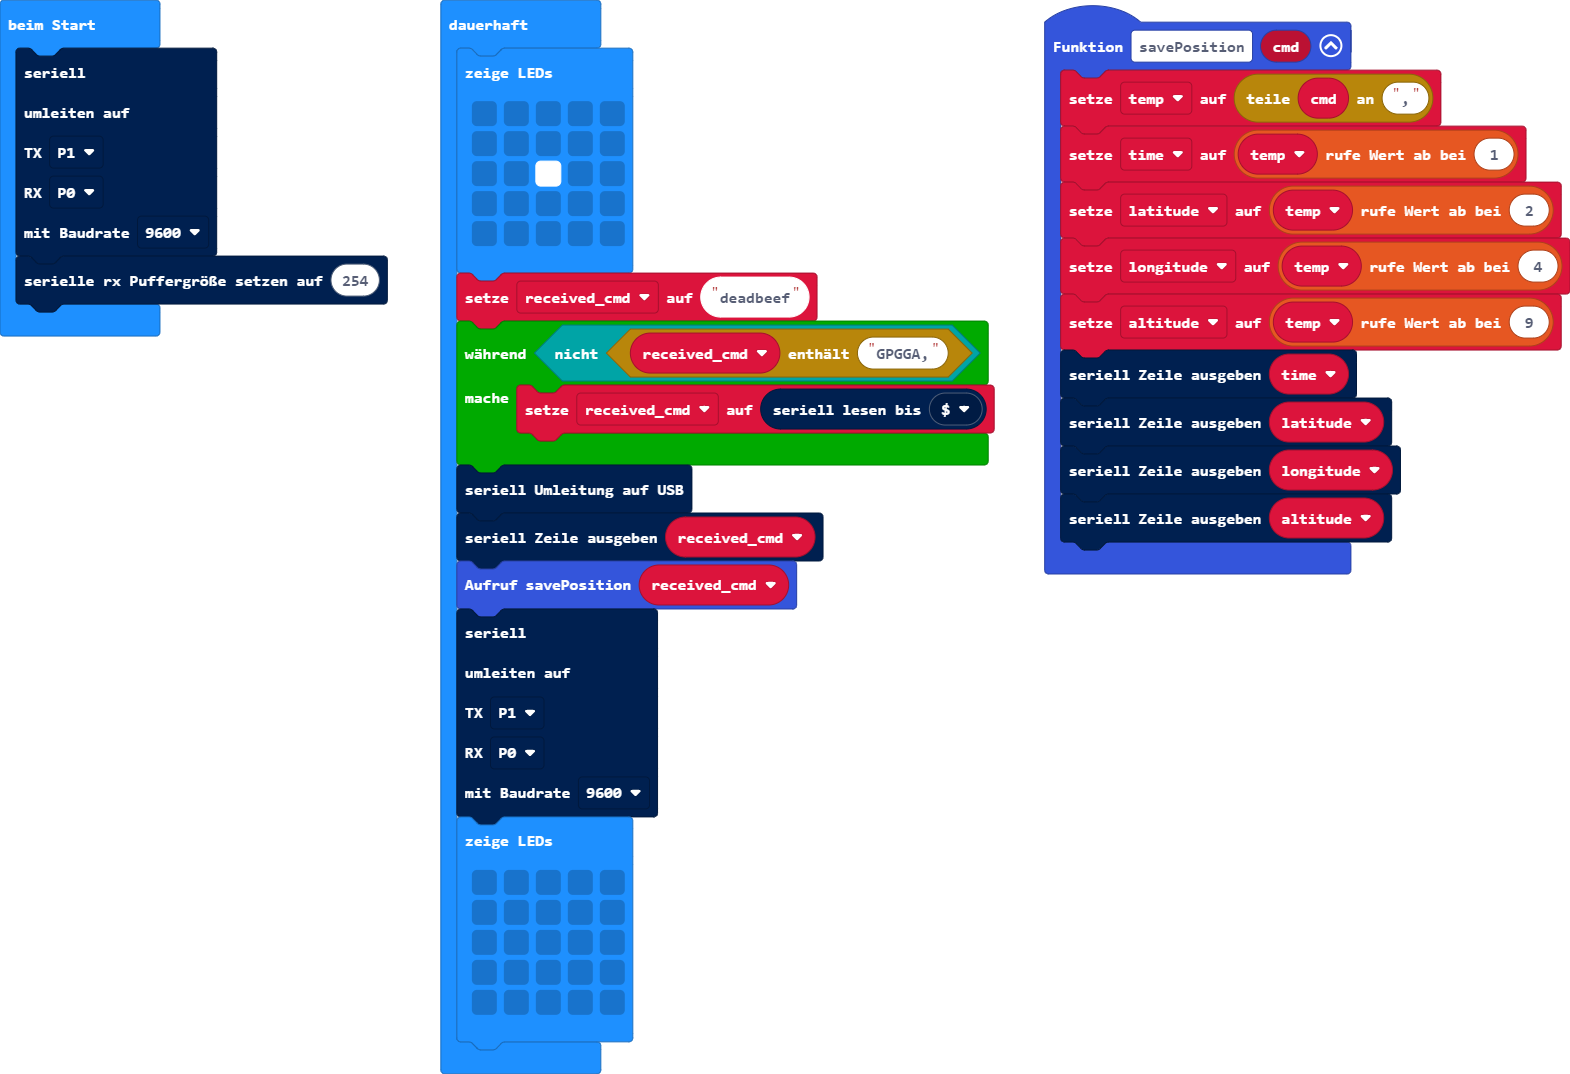
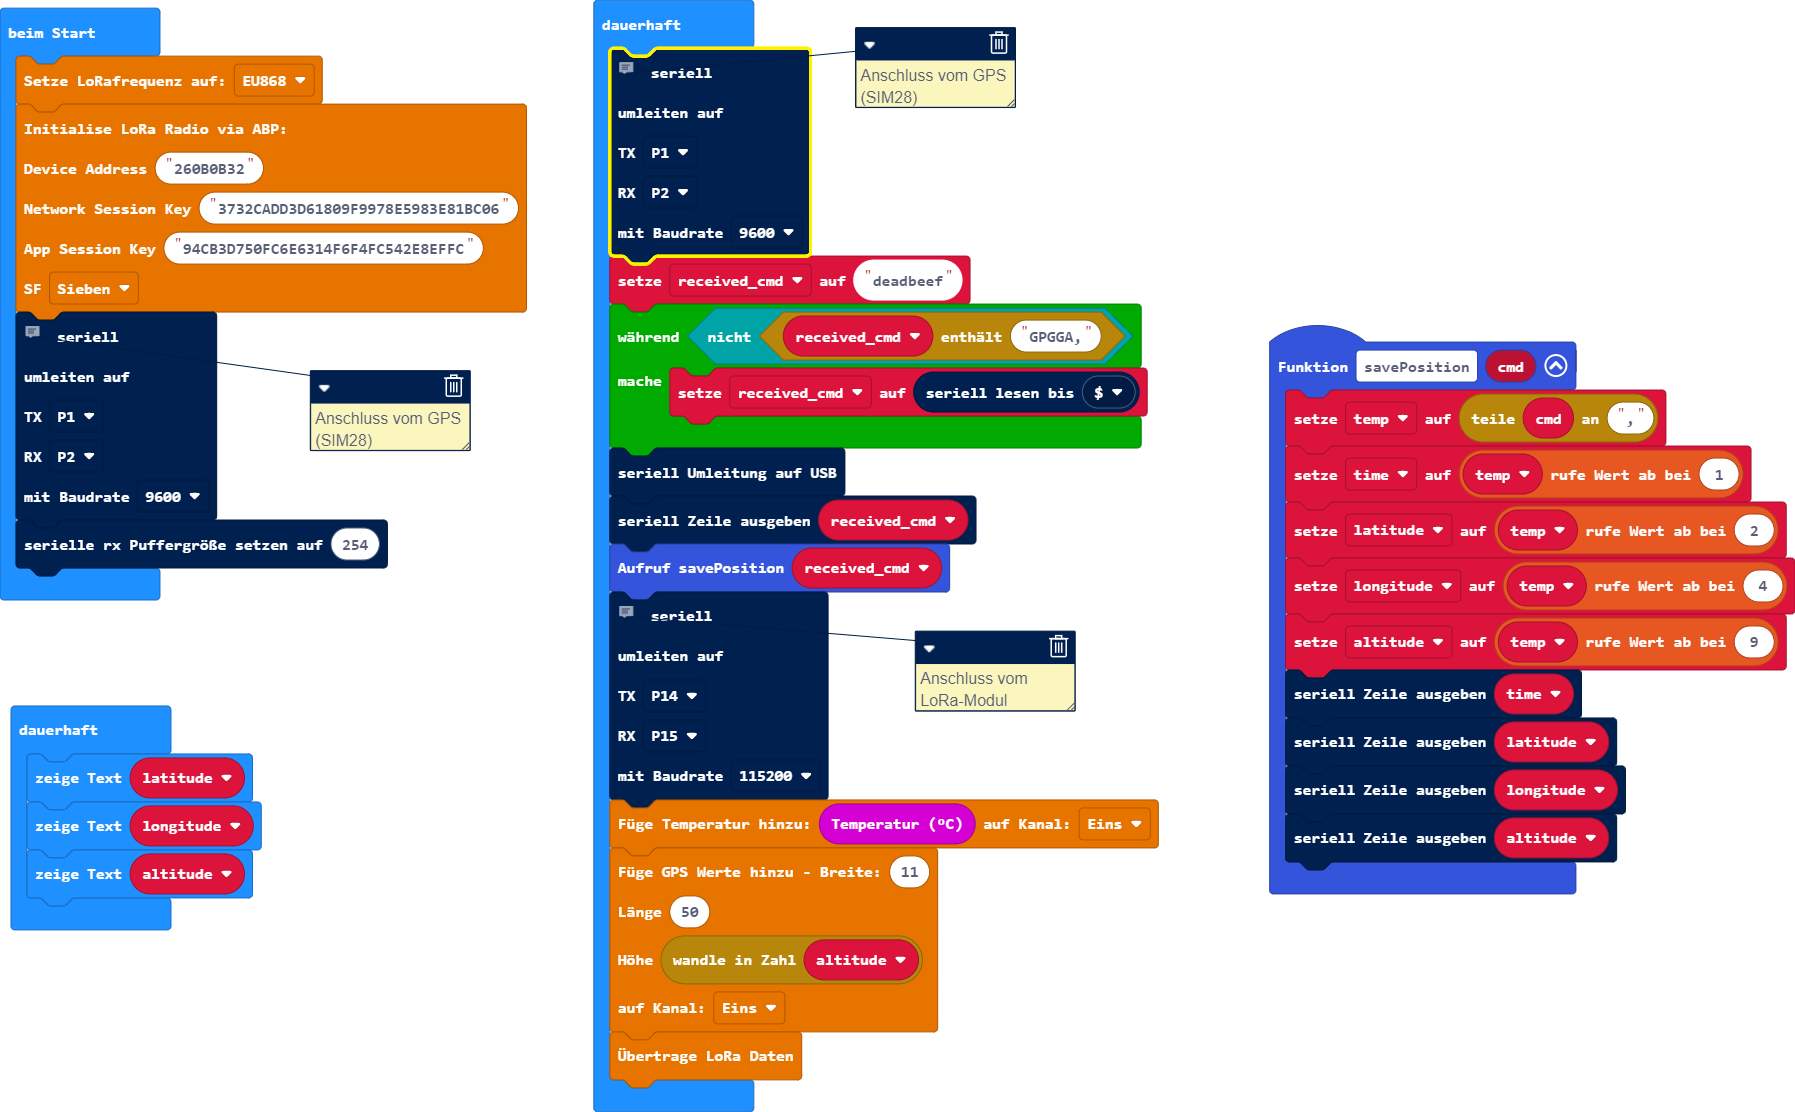
Lora integrated

diff --git a/main.ts b/main.ts
@@ -7,7 +7,7 @@ function savePosition (cmd: string) {
     serial.writeLine("" + (time))
     serial.writeLine("" + (latitude))
     serial.writeLine("" + (longitude))
-    serial.writeLine("" + (altitude))
+    serial.writeLine(altitude)
 }
 let received_cmd = ""
 let altitude = ""
@@ -15,20 +15,27 @@ let longitude = ""
 let latitude = ""
 let time = ""
 let temp: string[] = []
+IotLoRaNode.SetRegion(region.EU868)
+IotLoRaNode.InitialiseRadioABP(
+"260B0B32",
+"3732CADD3D61809F9978E5983E81BC06",
+"94CB3D750FC6E6314F6F4FC542E8EFFC",
+SpreadingFactors.Seven
+)
+// Anschluss vom GPS (SIM28)
 serial.redirect(
 SerialPin.P1,
-SerialPin.P0,
+SerialPin.P2,
 BaudRate.BaudRate9600
 )
 serial.setRxBufferSize(254)
 basic.forever(function () {
-    basic.showLeds(`
-        . . . . .
-        . . . . .
-        . . # . .
-        . . . . .
-        . . . . .
-        `)
+    // Anschluss vom GPS (SIM28)
+    serial.redirect(
+    SerialPin.P1,
+    SerialPin.P2,
+    BaudRate.BaudRate9600
+    )
     received_cmd = "deadbeef"
     while (!(received_cmd.includes("GPGGA,"))) {
         received_cmd = serial.readUntil(serial.delimiters(Delimiters.Dollar))
@@ -36,16 +43,23 @@ basic.forever(function () {
     serial.redirectToUSB()
     serial.writeLine(received_cmd)
     savePosition(received_cmd)
+    // Anschluss vom LoRa-Modul
     serial.redirect(
-    SerialPin.P1,
-    SerialPin.P0,
-    BaudRate.BaudRate9600
+    SerialPin.P14,
+    SerialPin.P15,
+    BaudRate.BaudRate115200
     )
-    basic.showLeds(`
-        . . . . .
-        . . . . .
-        . . . . .
-        . . . . .
-        . . . . .
-        `)
+    IotLoRaNode.TemperatureValue(input.temperature(), Channels.One)
+    IotLoRaNode.GPS(
+    11,
+    50,
+    parseFloat(altitude),
+    Channels.One
+    )
+    IotLoRaNode.loraTransmitPayload()
+})
+basic.forever(function () {
+    basic.showString("" + (latitude))
+    basic.showString("" + (longitude))
+    basic.showString(altitude)
 })
